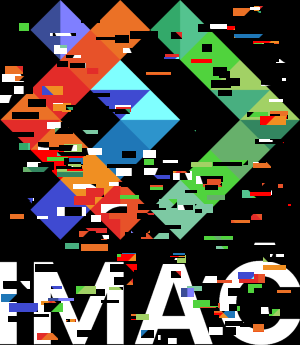
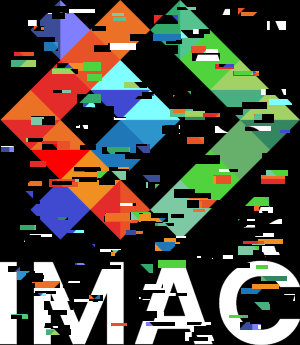
Test Markdown + Vortex

diff --git a/src/main.cpp b/src/main.cpp
@@ -1,6 +1,7 @@
 #include <sil/sil.hpp>
 #include <cmath>
 #include <complex>
+#include <glm/gtx/matrix_transform_2d.hpp>
 #include "random.hpp"
 
 void makeItGreen(sil::Image& image){
@@ -588,18 +589,46 @@ void fractale(sil::Image& image) {
     }
 }
 
+glm::vec2 rotated(glm::vec2 point, glm::vec2 center_of_rotation, float angle)
+{
+    return glm::vec2{glm::rotate(glm::mat3{1.f}, angle) * glm::vec3{point - center_of_rotation, 0.f}} + center_of_rotation;
+}
 
 void vortex(sil::Image& image) {
 
     int width = image.width();
     int height = image.height();
+    float base_angle = 20.0f;
 
-    for (int x = 0; x < image.width(); x++) {
-        for (int y = 0; y < image.height(); y++) {
+    glm::vec2 center_of_rotation(width / 2.0f, height / 2.0f);
+
+    //Distance maximale entre le centre et l'extrémité
+    float max_distance = glm::distance(center_of_rotation, glm::vec2(0, 0));
+
+
+    for (int x = 0; x < width; x++) {
+        for (int y = 0; y < height; y++) {
             
+            glm::vec2 current_point(x, y);
+
+            //Calcul de la distance par rapport au centre de rotation
+            float distance = glm::distance(center_of_rotation, current_point);
+
+            //Calcul de l'angle proportionnel à la distance
+            float angle = base_angle * (distance / max_distance);
+
+            //Rotation du point
+            glm::vec2 new_point = rotated(current_point, center_of_rotation, angle);
+
+            // Vérification des limites pour éviter des dépassements
+            if (new_point.x >= 0 && new_point.x < width && new_point.y >= 0 && new_point.y < height) {
+                glm::vec3 color = image.pixel(new_point.x, new_point.y); 
+                image.pixel(x, y) = color;
+            }
         }
     }
 }
+
 
 
 
@@ -663,7 +692,7 @@ int main()
 
     {
         sil::Image image{"images/photo.jpg"};
-        brightness(image, 0.1f);
+        brightness(image, 1.2f);
         image.save("output/brightness.jpg");
     }
 
@@ -720,6 +749,12 @@ int main()
         sil::Image image{"images/photo_faible_contraste.jpg"};
         normalisation(image);
         image.save("output/normalisation.jpg");  
+    }
+
+    {
+        sil::Image image{"images/logo.png"};
+        vortex(image);
+        image.save("output/vortex.png");  
     }
 
     

diff --git a/README.md b/README.md
@@ -1,1 +1,104 @@
 # WORKSHOP C++ - NOVEMBRE 2024 🏵
+
+BUT : Apprendre à coder des effets sur des images.
+
+BILAN : J'ai beaucoup aimé ce workshop. Je l'ai trouvé très épanouissant. Je remarque que mon utilisation de CHAT GPT peut être trop abusive. Je préférais coder sans mais c'est presque devenu une "addiction". Ça me donne envie de me forcer à coder sans. Il faudrait l'utiliser qu'en dernier recours.
+
+Aussi, ce workshop m'a donné envie de faire du Shader Art Coding. [Vidéo](https://www.youtube.com/watch?v=f4s1h2YETNY)
+
+
+### Ne garder que le vert 🦎
+
+![image](output/green.png)
+
+### Échanger les canaux 🤼♀
+
+![image](output/swapcolor.png)
+
+### Noir et Blanc 👁🗨
+
+![image](output/blackandwhite.png)
+
+### Négatif 👩🎤
+
+![image](output/negative.png)
+
+### Dégradé 🌫
+
+![image](output/gradient.png)
+
+### Miroir 🌜🌛
+
+![image](output/mirror.png)
+
+### Image Bruitée 🛰
+
+![image](output/noisy.png)
+
+### Rotation de 90 ↪
+
+![image](output/rotateX.png)
+
+### RGB Split ⛑🐊🛝
+
+![image](output/rgbSplit.png)
+
+### Luminosité 🌤
+
+![image](output/brightness.jpg)
+
+### Disque 🏀
+
+![image](output/disc.jpg)
+
+### Cercle 🪐
+
+![image](output/circle.jpg)
+
+### AnimatioooOOOooon 🕺
+
+![image](output/animation/animation%20.gif)
+
+### Rosace 🌸
+
+![image](output/rosace.png)
+
+### Mosaïque 🧮
+
+![image](output/mosaique.png)
+
+### Mosaïque Miroir 🫱🫲
+
+![image](output/mosaiquemiroir.png)
+
+Truc pas voulu : 
+![image](output/mosaiquemiroir-2.png)
+
+### Glitch 🦈
+
+![image](output/glitch.png)
+
+### Dégradé dans l'espace Couleur Lab 🪲
+
+![image](output/gradientRGB.png)
+Gradient avec RGB
+
+![image](output/colorgradient.png)
+Gradient avec le passage de couleur en Couleur Lab
+
+### Fractale 🖤
+
+![image](output/fractale.png)
+
+### Tramage 🌀
+
+![image](output/tramage.jpg)
+
+### Normalisation de l'Histogramme 〰
+
+![image](output/normalisation.jpg)
+
+### Vortex 🍪
+
+![image](output/vortex.png)
+
